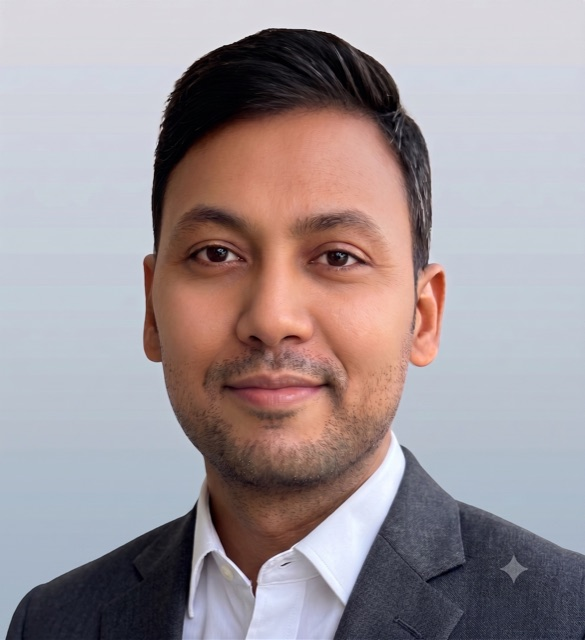
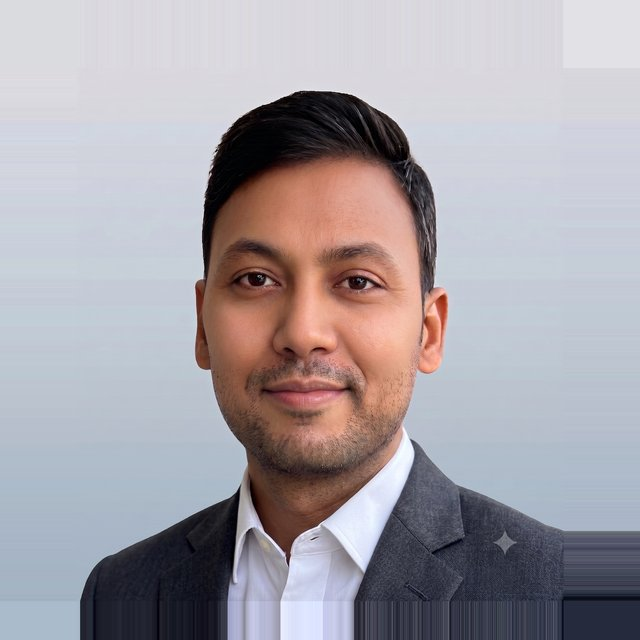
Regenerate headshot with proper headroom; add WhatsApp links; short-viewport hero fix
- profile.jpg rebuilt via seamless edge-extension padding: head sits
  ~14% from top of circle instead of touching the ring (640x640, 38KB)
- Avatar 168px desktop / 132px mobile / 128px on short laptop viewports
  with tightened hero spacing so CTAs stay above the fold (Cursor review)
- WhatsApp (wa.me/918985372727) added to hero socials + contact row
  with GoatCounter click tracking (whatsapp-hero / whatsapp-contact)

diff --git a/assets/css/style.css b/assets/css/style.css
@@ -181,13 +181,26 @@ body {
 .hero__content { position: relative; z-index: 2; max-width: 860px; }
 
 .hero__avatar {
-  width: 150px; height: 150px;
+  width: 168px; height: 168px;
   border-radius: 50%;
   object-fit: cover;
   padding: 4px;
   background: var(--gradient);
   box-shadow: 0 12px 40px rgba(99, 102, 241, 0.35);
-  margin-bottom: 26px;
+  margin-bottom: 28px;
+}
+
+@media (max-width: 720px) {
+  .hero__avatar { width: 132px; height: 132px; margin-bottom: 22px; }
+}
+
+/* Short laptop viewports: tighten hero so CTAs stay above the fold */
+@media (max-height: 760px) {
+  .hero__avatar { width: 128px; height: 128px; margin-bottom: 18px; }
+  .hero__eyebrow { margin-bottom: 18px; }
+  .hero__title { margin-bottom: 14px; }
+  .hero__tagline { margin-bottom: 26px; }
+  .hero__actions { margin-bottom: 26px; }
 }
 
 .hero__eyebrow {

diff --git a/index.html b/index.html
@@ -87,7 +87,7 @@
       <div class="hero__glow" aria-hidden="true"></div>
 
       <div class="hero__content">
-        <img class="hero__avatar reveal" src="assets/img/profile.jpg" alt="Portrait of Nikhil Komakula" width="150" height="150" fetchpriority="high" />
+        <img class="hero__avatar reveal" src="assets/img/profile.jpg" alt="Portrait of Nikhil Komakula" width="168" height="168" fetchpriority="high" />
         <p class="hero__eyebrow reveal"><span class="pulse-dot"></span>Senior AI Engineer @ Databricks</p>
         <h1 class="hero__title reveal">
           Nikhil <span class="gradient-text">Komakula</span>
@@ -117,6 +117,10 @@
           <a href="mailto:[email redacted]" aria-label="Email"
              data-goatcounter-click="email-hero" data-goatcounter-title="Email (hero)">
             <svg aria-hidden="true" focusable="false" viewBox="0 0 24 24" width="20" height="20" fill="none" stroke="currentColor" stroke-width="2"><rect x="2" y="4" width="20" height="16" rx="2"/><path d="m2 7 10 6L22 7"/></svg>
+          </a>
+          <a href="https://wa.me/918985372727" target="_blank" rel="noopener" aria-label="WhatsApp"
+             data-goatcounter-click="whatsapp-hero" data-goatcounter-title="WhatsApp (hero)">
+            <svg aria-hidden="true" focusable="false" viewBox="0 0 24 24" width="20" height="20" fill="currentColor"><path d="M17.47 14.38c-.3-.15-1.76-.87-2.03-.97-.27-.1-.47-.15-.67.15-.2.3-.77.97-.94 1.17-.17.2-.35.22-.64.07-.3-.15-1.26-.46-2.4-1.47-.88-.79-1.48-1.76-1.65-2.06-.17-.3-.02-.46.13-.6.13-.14.3-.35.44-.52.15-.17.2-.3.3-.5.1-.2.05-.37-.02-.52-.08-.15-.67-1.62-.92-2.22-.24-.58-.49-.5-.67-.51-.17-.01-.37-.01-.57-.01-.2 0-.52.07-.8.37-.27.3-1.04 1.02-1.04 2.5 0 1.47 1.07 2.89 1.22 3.09.15.2 2.1 3.2 5.08 4.49.71.31 1.26.49 1.7.63.71.23 1.36.2 1.87.12.57-.09 1.76-.72 2-1.42.25-.7.25-1.29.18-1.42-.08-.13-.28-.2-.57-.35z"/><path d="M12.05 2C6.55 2 2.08 6.47 2.08 11.97c0 1.76.46 3.48 1.34 4.99L2 22l5.16-1.35a9.96 9.96 0 0 0 4.88 1.24h.01c5.5 0 9.97-4.47 9.97-9.97C22.02 6.47 17.55 2 12.05 2zm0 18.21h-.01a8.27 8.27 0 0 1-4.22-1.16l-.3-.18-3.06.8.82-2.99-.2-.31a8.26 8.26 0 0 1-1.27-4.4c0-4.57 3.72-8.28 8.29-8.28 2.21 0 4.29.86 5.85 2.43a8.22 8.22 0 0 1 2.42 5.86c0 4.57-3.72 8.28-8.28 8.28z"/></svg>
           </a>
         </div>
       </div>
@@ -541,6 +545,8 @@
         </div>
         <div class="contact__links reveal">
           <a href="tel:+918985372727"><span aria-hidden="true">📞</span> +91 89853 72727</a>
+          <a href="https://wa.me/918985372727" target="_blank" rel="noopener"
+             data-goatcounter-click="whatsapp-contact" data-goatcounter-title="WhatsApp (contact)"><span aria-hidden="true">💬</span> WhatsApp</a>
           <a href="https://www.linkedin.com/in/nikhilkomakula" target="_blank" rel="noopener"
              data-goatcounter-click="linkedin-contact" data-goatcounter-title="LinkedIn (contact)"><span aria-hidden="true">💼</span> LinkedIn</a>
           <a href="https://github.com/nikhilkomakula" target="_blank" rel="noopener"